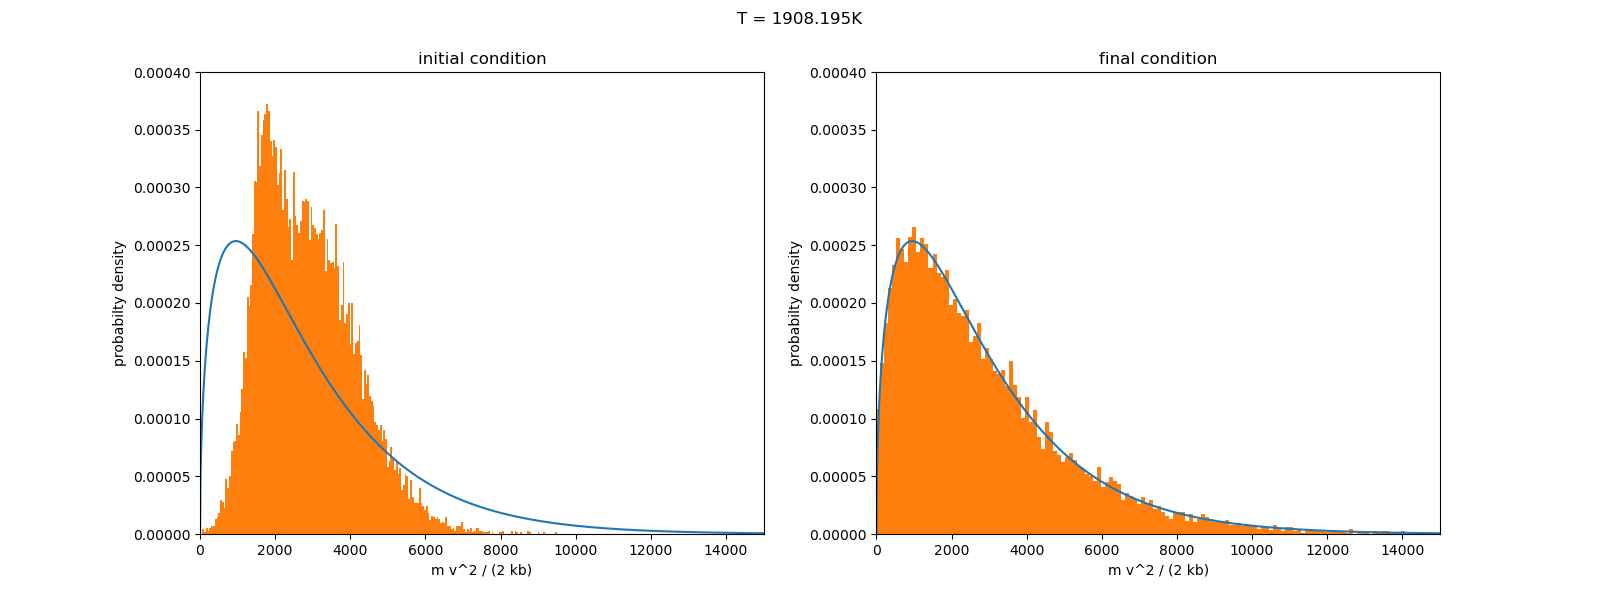
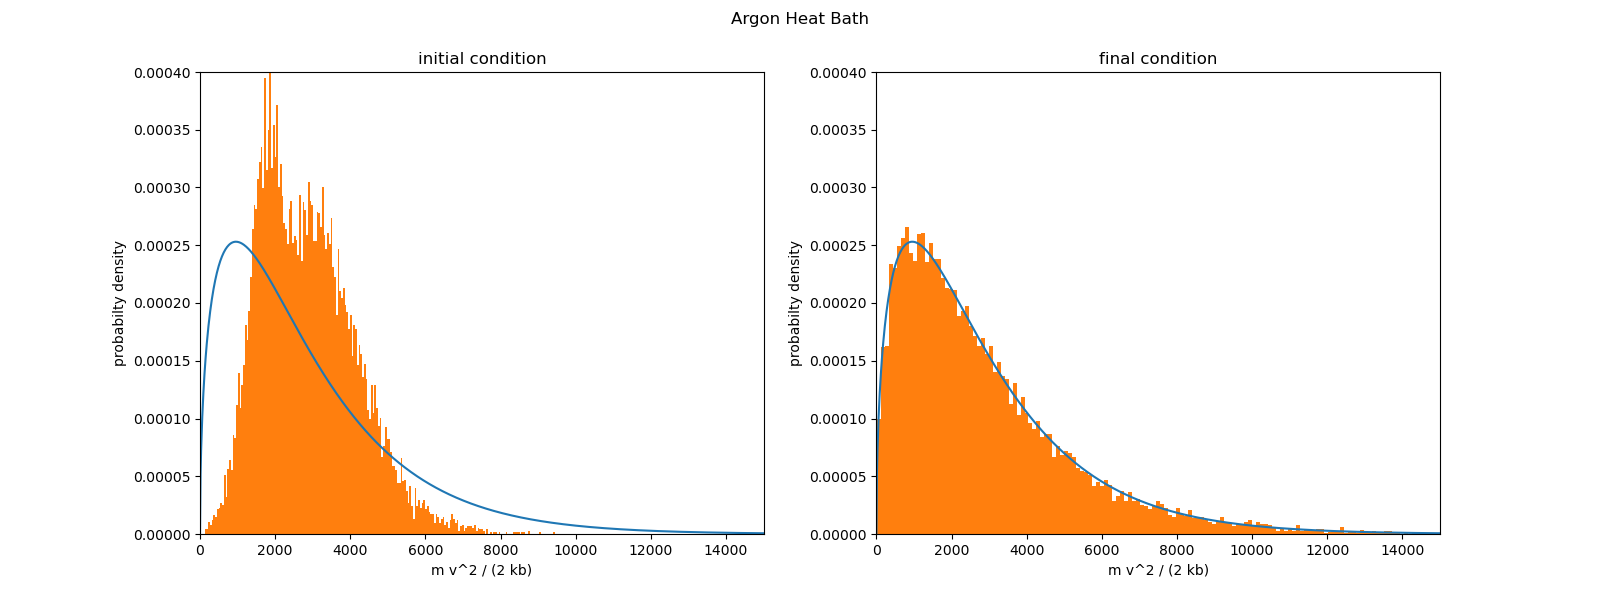
updated heat bath test case

diff --git a/examples/heat_bath/heat_bath.py b/examples/heat_bath/heat_bath.py
@@ -70,7 +70,7 @@ if __name__ == '__main__':
     ax1.set_xlim([0, xmax])
     ax1.set_ylim([0, 0.00040])
     
-    fig.suptitle("T = {:.3f}K".format(Tnew))
+    fig.suptitle("Argon Heat Bath")
     plt.show() 
     
     print('done')
